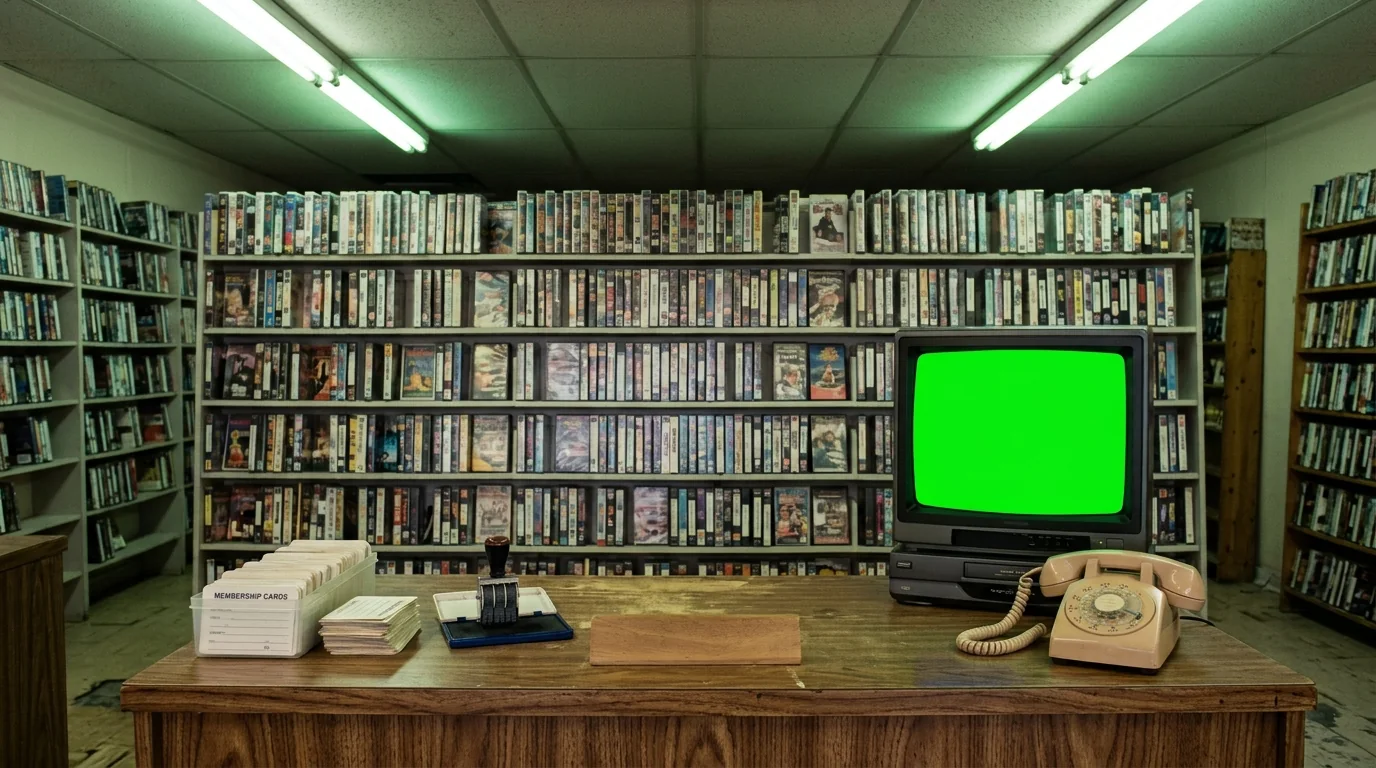
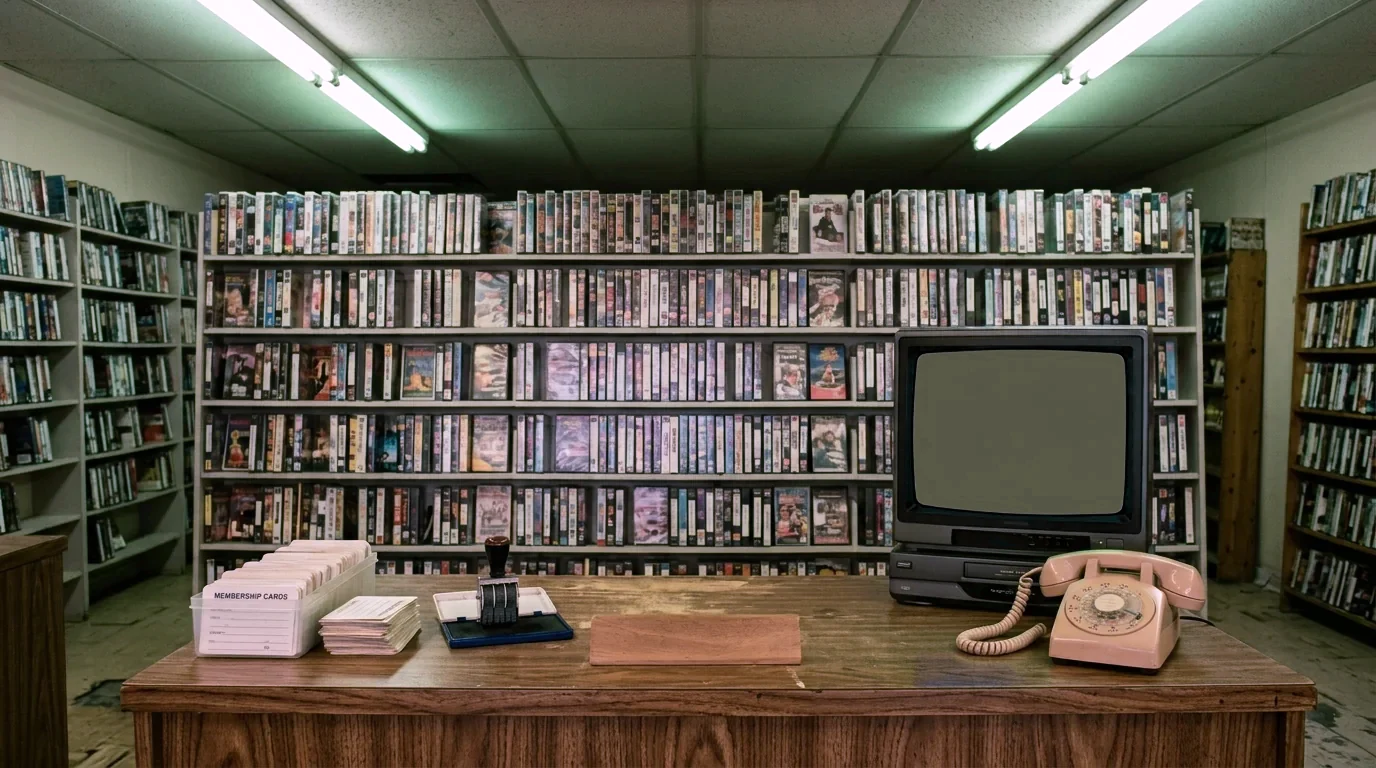
Video Kave, comptoir : l'écran épouse le verre penché du tube (homographie sur ses quatre côtés mesurés), coins du tube, image claire et nette, vidéo plein cadre rognée sur les côtés ; photo du comptoir mise à la lumière de l'allée (dominante verte retirée, liseré vert du tube neutralisé) ; sw.js : 
Claude-Session: https://claude.ai/code/session_014nJuEKtcDcjgZmvCVg6pCS

diff --git a/kave/videoclub.html b/kave/videoclub.html
@@ -83,8 +83,8 @@ button,[role=button]{touch-action:manipulation;user-select:none;-webkit-user-sel
 @media (max-aspect-ratio:1/1){#case{flex-direction:column;justify-content:flex-start;overflow:auto;padding:16px 0 0;gap:14px}#case .face{height:auto;width:min(78vw,44vh)}#case .back{height:auto;width:min(92vw,560px);overflow:visible}#case .acts{justify-content:stretch}#case .acts .btn{flex:1}}
 /* comptoir : la cassette louée passe dans le magnétoscope, l'image sur le téléviseur */
 /* 10 nov. (21 h 37) : cadre calé au pixel sur le verre de la photo ; verre bombé, sans excès : coins plus ronds, bords assombris, reflet courbe */
-#tv{position:absolute;left:66.42%;top:45.57%;width:15.33%;height:21.35%;border-radius:4%/5%;background:transparent center/cover;box-shadow:inset 0 0 9px 4px rgba(0,0,0,.6);cursor:pointer;overflow:hidden;filter:saturate(1.2) contrast(1.08) blur(.4px);outline:0}
-#tv::after{content:"";position:absolute;inset:0;border-radius:inherit;background:radial-gradient(ellipse 120% 90% at 32% 18%,rgba(255,255,255,.12),rgba(255,255,255,0) 45%),radial-gradient(ellipse at 50% 50%,transparent 48%,rgba(0,0,0,.62))}
+/* 26 nov. (Mauk Tenieb : « l'écran du bureau est mal exploité, mal tourné ») : l'écran épouse le verre penché du tube (homographie sur ses quatre côtés mesurés), coins du tube, image claire et nette */#tv{position:absolute;left:66.42%;top:45.57%;width:15.33%;height:21.35%;border-radius:9%/11%;background:transparent center/cover;box-shadow:inset 0 0 4px 1px rgba(0,0,0,.45);cursor:pointer;overflow:hidden;filter:saturate(1.15) contrast(1.06);outline:0;transform-origin:0 0}
+#tv::after{content:"";position:absolute;inset:0;border-radius:inherit;background:radial-gradient(ellipse 120% 90% at 32% 18%,rgba(255,255,255,.12),rgba(255,255,255,0) 45%),radial-gradient(ellipse at 50% 50%,transparent 58%,rgba(0,0,0,.3))}
 #tv:focus-visible{box-shadow:inset 0 0 6px 2px rgba(0,0,0,.55),0 0 18px 5px rgba(255,190,110,.5)}
 #tv .osd{position:absolute;left:7%;top:7%;font:max(12px,calc(var(--sh)*.022))/1 VT323,monospace;color:#fff;text-shadow:1px 1px 0 #000,0 0 3px rgba(255,255,255,.4);white-space:nowrap}
 /* grain de pellicule sur le rayon et le comptoir (la salle a le sien dans le tube) */
@@ -102,7 +102,7 @@ button,[role=button]{touch-action:manipulation;user-select:none;-webkit-user-sel
 <div id="salle" tabindex="-1" aria-label="Video Kave"></div>
 <div id="wrap">
  <div class="scene" id="rayon"><img class="bg" data-src="a/vc/vc-02-rayon.webp?v=1122" alt=""><div id="boxes"></div><div class="rail" id="rails"></div></div>
- <div class="scene" id="comptoir"><img class="bg" data-src="a/vc/vc-03-comptoir.webp?v=1122b" alt=""><div id="tv" role="button" tabindex="0" aria-label="VCR"><div class="osd"></div></div><div class="hot" id="hPhone" role="button" tabindex="0" aria-label="Motel Sound"></div></div>
+ <div class="scene" id="comptoir"><img class="bg" data-src="a/vc/vc-03-comptoir.webp?v=1126" alt=""><div id="tv" role="button" tabindex="0" aria-label="VCR"><div class="osd"></div></div><div class="hot" id="hPhone" role="button" tabindex="0" aria-label="Motel Sound"></div></div>
 </div>
 <div id="case" role="dialog" aria-modal="true"><div class="face"></div><div class="back"></div></div>
 <div id="grain" aria-hidden="true"></div>
@@ -270,8 +270,22 @@ var VC={ids:null,f:null};
 function vcIds(cb){if(VC.ids)return cb(VC.ids);fetch('../index.html').then(function(r){return r.text()}).then(function(t){var m=/var JUKE_TRACKS=(\[.*?\]);/.exec(t),a=[];try{a=m?JSON.parse(m[1]):[]}catch(e){}VC.ids=a.map(function(x){return x.id});cb(VC.ids)}).catch(function(){VC.ids=[];cb([])})}
 function vcClip(v){var tv=$('#tv');if(!v){if(VC.f){VC.f.remove();VC.f=null}return}if(VC.f)return;vcIds(function(ids){if(!ids.length||VC.f||cur||scene!=='comptoir')return;var o=ids.slice().sort(function(){return Math.random()-.5}).slice(0,40),f=document.createElement('iframe');
  f.src='https://www.youtube-nocookie.com/embed/'+o[0]+'?autoplay=1&mute=1&controls=0&disablekb=1&fs=0&iv_load_policy=3&modestbranding=1&playsinline=1&rel=0&loop=1&playlist='+o.join(',');
- f.allow='autoplay';f.tabIndex=-1;f.setAttribute('aria-hidden','true');f.style.cssText='position:absolute;left:-18%;top:-18%;width:136%;height:136%;border:0;pointer-events:none';tv.insertBefore(f,tv.firstChild);VC.f=f})}
-function comptoir(){var tv=$('#tv');vcClip(!cur);if(!cur){tv.style.backgroundImage='none';tv.style.backgroundColor='#000';$('.osd',tv).textContent='';return}tv.style.backgroundColor='#000';
+ f.allow='autoplay';f.tabIndex=-1;f.setAttribute('aria-hidden','true');f.style.cssText='position:absolute;left:-20.85%;top:-2%;width:141.7%;height:104%;border:0;pointer-events:none';tv.insertBefore(f,tv.firstChild);VC.f=f;tvWarp()})}
+/* 26 nov. : côtés du verre mesurés sur la photo du comptoir (vert d'incrustation), prolongés jusqu'à leurs croisements ; l'écran suit cette perspective sur tout format ; la vidéo 16:9 remplit le verre 4:3, rognée sur les côtés comme une VHS d'époque */
+var TVQ=[[914.1,350.2],[1125.5,349.9],[1124.1,516.9],[913.3,507.7]];
+function hom(a,b){var M=[],v=[],i,j,k;for(i=0;i<4;i++){var x=a[i][0],y=a[i][1],X=b[i][0],Y=b[i][1];M.push([x,y,1,0,0,0,-x*X,-y*X]);v.push(X);M.push([0,0,0,x,y,1,-x*Y,-y*Y]);v.push(Y)}
+ for(i=0;i<8;i++){var r=i;for(j=i+1;j<8;j++)if(Math.abs(M[j][i])>Math.abs(M[r][i]))r=j;var t=M[i];M[i]=M[r];M[r]=t;t=v[i];v[i]=v[r];v[r]=t;
+  for(j=i+1;j<8;j++){var f=M[j][i]/M[i][i];for(k=i;k<8;k++)M[j][k]-=f*M[i][k];v[j]-=f*v[i]}}
+ var h=[];for(i=7;i>=0;i--){var sm=v[i];for(k=i+1;k<8;k++)sm-=M[i][k]*h[k];h[i]=sm/M[i][i]}return h}
+function tvWarp(){var tv=$('#tv'),sc=$('#comptoir'),W=sc.offsetWidth,H=sc.offsetHeight;if(!W||!H)return;
+ var q=TVQ.map(function(p){return [p[0]/1376*W,p[1]/768*H]}),cx=(q[0][0]+q[1][0]+q[2][0]+q[3][0])/4,cy=(q[0][1]+q[1][1]+q[2][1]+q[3][1])/4;
+ q=q.map(function(p){var dx=p[0]-cx,dy=p[1]-cy,d=Math.hypot(dx,dy)||1;return [p[0]+dx/d*1.5,p[1]+dy/d*1.5]});
+ var bw=(q[1][0]-q[0][0]+q[2][0]-q[3][0])/2,bh=(q[3][1]-q[0][1]+q[2][1]-q[1][1])/2,m=hom([[0,0],[bw,0],[bw,bh],[0,bh]],q);
+ tv.style.left='0';tv.style.top='0';tv.style.width=bw+'px';tv.style.height=bh+'px';
+ tv.style.transform='matrix3d('+[m[0],m[3],0,m[6],m[1],m[4],0,m[7],0,0,1,0,m[2],m[5],0,1].join(',')+')';
+ if(VC.f){var w=104*16/9/(bw/bh);VC.f.style.width=w+'%';VC.f.style.left=(100-w)/2+'%'}}
+if(window.ResizeObserver)new ResizeObserver(tvWarp).observe($('#comptoir'));addEventListener('resize',tvWarp);
+function comptoir(){var tv=$('#tv');tvWarp();vcClip(!cur);if(!cur){tv.style.backgroundImage='none';tv.style.backgroundColor='#000';$('.osd',tv).textContent='';return}tv.style.backgroundColor='#000';
  tv.style.backgroundImage='url('+(cur.kind==='prog'?cur.p.thumb:cur.img)+')';$('.osd',tv).textContent=t('play')}
 function play(){if(!cur){go('rayon');return}if(ON)location.href=cur.url;else window.open(cur.url,'_blank','noopener')}
 $('#tv').onclick=function(){if(!swiped)play()};

diff --git a/sw.js b/sw.js
@@ -1,5 +1,5 @@
 /* Insert Koin: pages and code from the network first (the cache only when offline); images, fonts and wasm from the cache, then refreshed */
-const C='borne-202611262130';  // prefix borne- : this worker clears only its own caches, Insert Koin's ik- caches stay
+const C='borne-202611262230';  // prefix borne- : this worker clears only its own caches, Insert Koin's ik- caches stay
 self.addEventListener('install',e=>self.skipWaiting());
 self.addEventListener('activate',e=>e.waitUntil(caches.keys().then(ks=>Promise.all(ks.filter(k=>k!==C&&(k.indexOf('borne-')===0||(k.indexOf('ik-')===0&&k.indexOf('ik-archive')!==0))).map(k=>caches.delete(k)))).then(()=>self.clients.claim())));
 self.addEventListener('fetch',e=>{const u=new URL(e.request.url);if(e.request.method!=='GET'||u.origin!==location.origin||e.request.headers.has('range'))return;  // audio and video read by ranges go to the network (Safari)
